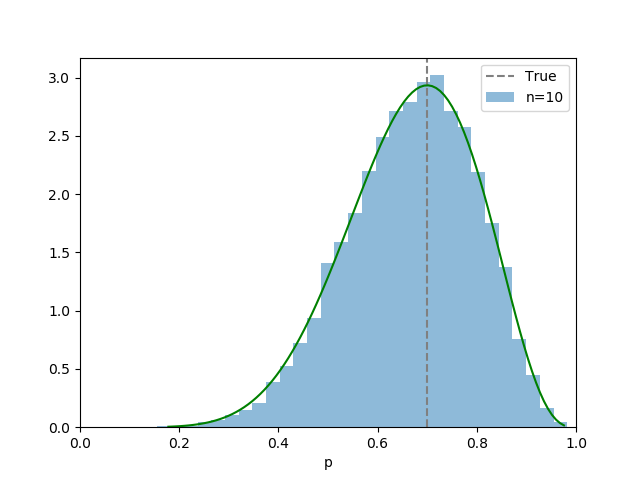
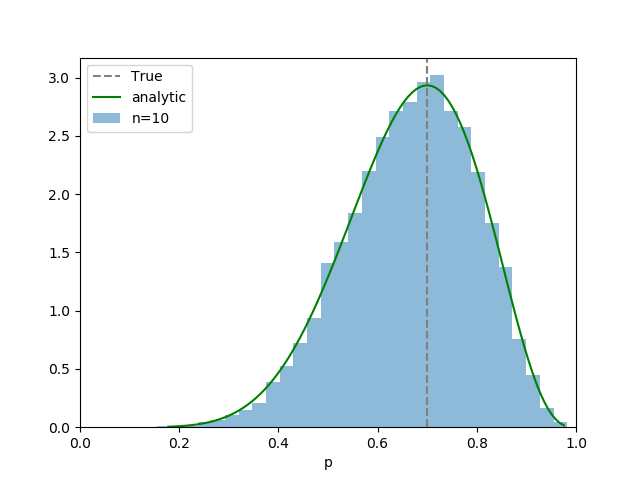
use include

Changed region(s): [[0.125, 0.125, 0.3125, 0.2812], [0.75, 0.125, 0.9062, 0.2188]]

diff --git a/gabc/random_gen/random_exponential.py b/gabc/random_gen/random_exponential.py
@@ -9,33 +9,24 @@ from pycuda.compiler import SourceModule
 
 def gabcrm_module ():
     source_module = SourceModule("""
-    #include <curand_kernel.h>
-    #include "gengamma.h"
 
+    #include <curand_kernel.h>
 
     extern "C"{
-    
-    __global__ void betagen(float* x, float alpha, float beta){
+    __global__ void expgen(float *x, float lambdain){
+
     unsigned long seed;
     unsigned long id;
     curandState s;
-    float ga;
-    float gb;
-
+    
     seed=10;
     id = blockIdx.x;
     curand_init(seed, id, 0, &s);
 
-    ga=gammaf(alpha,1.0, &s);
-    gb=gammaf(beta,1.0, &s);
-    x[id] = ga/(ga + gb);
-
-    return;
+    x[id] = -log(curand_uniform(&s))/lambdain;
 
     }
-
     }
-
 
     """,options=['-use_fast_math'],no_extern_c=True)
 
@@ -44,15 +35,13 @@ def gabcrm_module ():
 if __name__ == "__main__":
     import numpy as np
     import matplotlib.pyplot as plt
-    from scipy.stats import beta as betafunc
+    from scipy.stats import expon as expfunc
     
     print("********************************************")
-    print("Beta function Random Sampler using curand_kernel.h")
-    print("g_a ~ Gamma[a], beta is generated by g_a/(g_a + g_b)")
+    print("Exponential distribution Random Sampler using curand_kernel.h")
     print("********************************************")
 
-    alpha=1.2
-    beta=1.3
+    lambdain=1.0
     
     nw=1
     nt=100000
@@ -65,13 +54,13 @@ if __name__ == "__main__":
     cuda.memcpy_htod(dev_x,x)
 
     source_module=gabcrm_module()
-    pkernel=source_module.get_function("betagen")
-    pkernel(dev_x,np.float32(alpha),np.float32(beta),block=(int(nw),1,1), grid=(int(nt),int(nq)),shared=sharedsize)
+    pkernel=source_module.get_function("expgen")
+    pkernel(dev_x,np.float32(lambdain),block=(int(nw),1,1), grid=(int(nt),int(nq)),shared=sharedsize)
     cuda.memcpy_dtoh(x, dev_x)
 
-    
-    plt.hist(x,bins=30,density=True)
-    xl = np.linspace(betafunc.ppf(0.001, alpha, beta),betafunc.ppf(0.999, alpha, beta), 100)
-    plt.plot(xl, betafunc.pdf(xl, alpha, beta))
+    plt.hist(x,bins=100,density=True,alpha=0.5)
+
+    xl = np.linspace(expfunc.ppf(0.001, scale=1.0/lambdain),expfunc.ppf(0.999, scale=1.0/lambdain), 100)
+    plt.plot(xl, expfunc.pdf(xl, scale=1.0/lambdain))
 
     plt.show()

diff --git a/gabc/gabcrm.py b/gabc/gabcrm.py
@@ -12,26 +12,17 @@ def gabcrm_module ():
 
     #include <stdio.h>
     #include <curand_kernel.h>
+    #include "genbinomial.h"
     #define MAXTRY 100000
+    
+    __device__ int rho(int X,int Y){
 
-    __device__ int model(int n,float p,curandState *s){
-    /* Binomial model generator */
-
-    int val=0;
-
-    for (int i = 0; i < n; i++){
-    if (curand_uniform(s) <= p){
-    val++;
-    }
-    }
-
-    return val;
+    return abs(X - Y);
 
     }
-
 
     extern "C"{
-    __global__ void abcrm(float *x, int Yobs, int n){
+    __global__ void abcrm(float *x, int Yobs, int n, int epsilon){
 
     unsigned long seed;
     unsigned long id;
@@ -56,8 +47,11 @@ def gabcrm_module ():
 
     /* sample p from the uniform distribution */
     p = curand_uniform(&s);
-    X = model(n,p,&s);
-    if(X == Yobs){
+
+    /* sampler */
+    X = binomialf(n,p,&s);
+
+    if(rho(X,Yobs)<epsilon){
     x[id] = p;
     return;
     }
@@ -89,7 +83,7 @@ if __name__ == "__main__":
     n=10
     ptrue=0.7
     Yobs=random.binomial(n,ptrue)
-
+    epsilon = 1
     print("Observed Value is ",Yobs)
     
     nw=1
@@ -104,15 +98,14 @@ if __name__ == "__main__":
     
     source_module=gabcrm_module()
     pkernel=source_module.get_function("abcrm")
-    pkernel(dev_x,np.int32(Yobs),np.int32(n),block=(int(nw),1,1), grid=(int(nt),int(nq)),shared=sharedsize)
+    pkernel(dev_x,np.int32(Yobs),np.int32(n),np.int32(epsilon),block=(int(nw),1,1), grid=(int(nt),int(nq)),shared=sharedsize)
     cuda.memcpy_dtoh(x, dev_x)
 
     tend=time.time()
     print("t=",tend-tstart)
     
-    plt.hist(x,bins=30,label="n="+str(n),normed=True,alpha=0.5)
+    plt.hist(x,bins=30,label="n="+str(n),density=True,alpha=0.5)
     plt.axvline(ptrue,color="gray",label="True",ls="dashed")
-    plt.legend()
     plt.xlim(0,1)
     plt.xlabel("p")
     alpha=1.0
@@ -120,6 +113,7 @@ if __name__ == "__main__":
     
     xl = np.linspace(betafunc.ppf(0.0001, Yobs+alpha, n - Yobs + beta),betafunc.ppf(0.9999,Yobs+alpha, n - Yobs + beta), 100)
     plt.plot(xl, betafunc.pdf(xl, Yobs+alpha, n - Yobs + beta),label="analytic", color="green")
+    plt.legend()
 
     plt.savefig("abcrm"+str(n)+".png")
     plt.show()

diff --git a/gabc/random_gen/random_gamma.py b/gabc/random_gen/random_gamma.py
@@ -15,7 +15,7 @@ def gabcrm_module ():
 
     extern "C"{
 
-    __global__ void gammagen(float *x, float ain){
+    __global__ void gammagen(float *x, float ain, float bin){
 
     unsigned long seed;
     unsigned long id;
@@ -53,10 +53,10 @@ def gabcrm_module ():
     if (u < 1. - 0.0331 * (y * y) * (y * y)) {
 
     if(a > ain){
-    x[id] = (d * v)*pow(curand_uniform(&s),1.0/ain);
+    x[id] = (d * v)*pow(curand_uniform(&s),1.0/ain)/bin;
     return;
     }else{
-    x[id] = (d * v);
+    x[id] = (d * v)/bin;
     return;
     }
 
@@ -64,10 +64,10 @@ def gabcrm_module ():
     if (log(u) < 0.5 * y * y + d * (1. - v + log(v))) {
 
     if(a > ain){
-    x[id] = (d * v)*pow(curand_uniform(&s),1.0/ain);
+    x[id] = (d * v)*pow(curand_uniform(&s),1.0/ain)/bin;
     return;
     }else{
-    x[id] = (d * v);
+    x[id] = (d * v)/bin;
     return;
     }
 
@@ -91,10 +91,11 @@ if __name__ == "__main__":
     print("********************************************")
     print("Gamma function Random Sampler using curand_kernel.h")
     print("by Marsaglia and Tsang’s method")
-    print(":Gamma[alpha] for alpha > 0")
+    print(":Gamma[alpha,beta] for alpha > 0, beta >0")
     print("********************************************")
 
-    alpha=1.2
+    alpha=0.8
+    beta=0.8
     
     nw=1
     nt=100000
@@ -108,12 +109,12 @@ if __name__ == "__main__":
 
     source_module=gabcrm_module()
     pkernel=source_module.get_function("gammagen")
-    pkernel(dev_x,np.float32(alpha),block=(int(nw),1,1), grid=(int(nt),int(nq)),shared=sharedsize)
+    pkernel(dev_x,np.float32(alpha),np.float32(beta),block=(int(nw),1,1), grid=(int(nt),int(nq)),shared=sharedsize)
     cuda.memcpy_dtoh(x, dev_x)
 
-    plt.hist(x,bins=100,normed=True)
+    plt.hist(x,bins=100,density=True)
 
-    xl = np.linspace(gammafunc.ppf(0.01, alpha),gammafunc.ppf(0.99, alpha), 100)
-    plt.plot(xl, gammafunc.pdf(xl, alpha))
-
+    xl = np.linspace(gammafunc.ppf(0.01, alpha,scale=1.0/beta),gammafunc.ppf(0.99, alpha,scale=1.0/beta), 100)
+    plt.plot(xl, gammafunc.pdf(xl, alpha, scale=1.0/beta))
+    plt.title("Gamma Distribution, alpha="+str(alpha)+" beta="+str(beta))
     plt.show()

diff --git a/include/gengamma.h b/include/gengamma.h
@@ -1,0 +1,56 @@
+#include <curand_kernel.h>
+#define MAXTRY 10000
+
+__device__ float gammaf(float ain, float bin, curandState* s){
+
+  unsigned long cnt=0;
+  float d, c, y, v, u, a;
+
+  if(ain > 1.0){
+    a = ain;
+  }else if(ain > 0.0){
+    a = ain + 1.0;
+  }else{
+    return 0.0;
+  }
+  
+  d = a - 1. / 3.;
+  c = 1. / sqrt(9. * d);
+  for (;;) {
+    do {
+      y =curand_normal(s);
+      v = 1. + c * y;
+    } while (v <= 0.);
+    
+    cnt=cnt+1;
+    if(cnt > MAXTRY){
+      printf("*** EXCEED MAXTRY ***");
+      return 0.0;
+    }
+    
+    v = v * v * v;
+    u = curand_uniform(s);
+    if (u < 1. - 0.0331 * (y * y) * (y * y)) {
+      
+      if(a > ain){
+	return (d * v)*pow(curand_uniform(s),1.0/ain)/bin;
+      }else{
+	return (d * v)/bin;
+      }
+      
+    }
+    if (log(u) < 0.5 * y * y + d * (1. - v + log(v))) {
+      
+      if(a > ain){
+	return (d * v)*pow(curand_uniform(s),1.0/ain)/bin;
+      }else{
+	return (d * v)/bin;
+      }
+      
+    }
+    
+  }
+
+}
+ 
+

diff --git a/gabc/random_gen/random_uniform.py b/gabc/random_gen/random_uniform.py
@@ -13,7 +13,7 @@ def gabcrm_module ():
     #include <curand_kernel.h>
 
     extern "C"{
-    __global__ void abcrm(float *x){
+    __global__ void uniformgen(float *x){
 
     unsigned long seed;
     unsigned long id;
@@ -51,7 +51,7 @@ if __name__ == "__main__":
     cuda.memcpy_htod(dev_x,x)
 
     source_module=gabcrm_module()
-    pkernel=source_module.get_function("abcrm")
+    pkernel=source_module.get_function("uniformgen")
     pkernel(dev_x,block=(int(nw),1,1), grid=(int(nt),int(nq)),shared=sharedsize)
     cuda.memcpy_dtoh(x, dev_x)
 

diff --git a/include/genbinomial.h b/include/genbinomial.h
@@ -1,0 +1,17 @@
+#include <curand_kernel.h>
+
+__device__ int binomialf(int n,float p,curandState *s){
+  /* Binomial model generator */
+  
+  int val=0;
+  
+  for (int i = 0; i < n; i++){
+    if (curand_uniform(s) <= p){
+      val++;
+    }
+  }
+  
+  return val;
+  
+}
+

diff --git a/Readme.md b/Readme.md
@@ -2,6 +2,17 @@ GPU Approximate Baysian Computation
 
 Under development.
 
+# setting
+
+gabc uses header files for nvcc. set CPLUS_INCLUDE_PATH to gabc/include.
+
+```
+ setenv CPLUS_INCLUDE_PATH /../../exoabc/include
+
+```
+
+
+
 # ABC samples
 
 ## ABC rejection sampling
